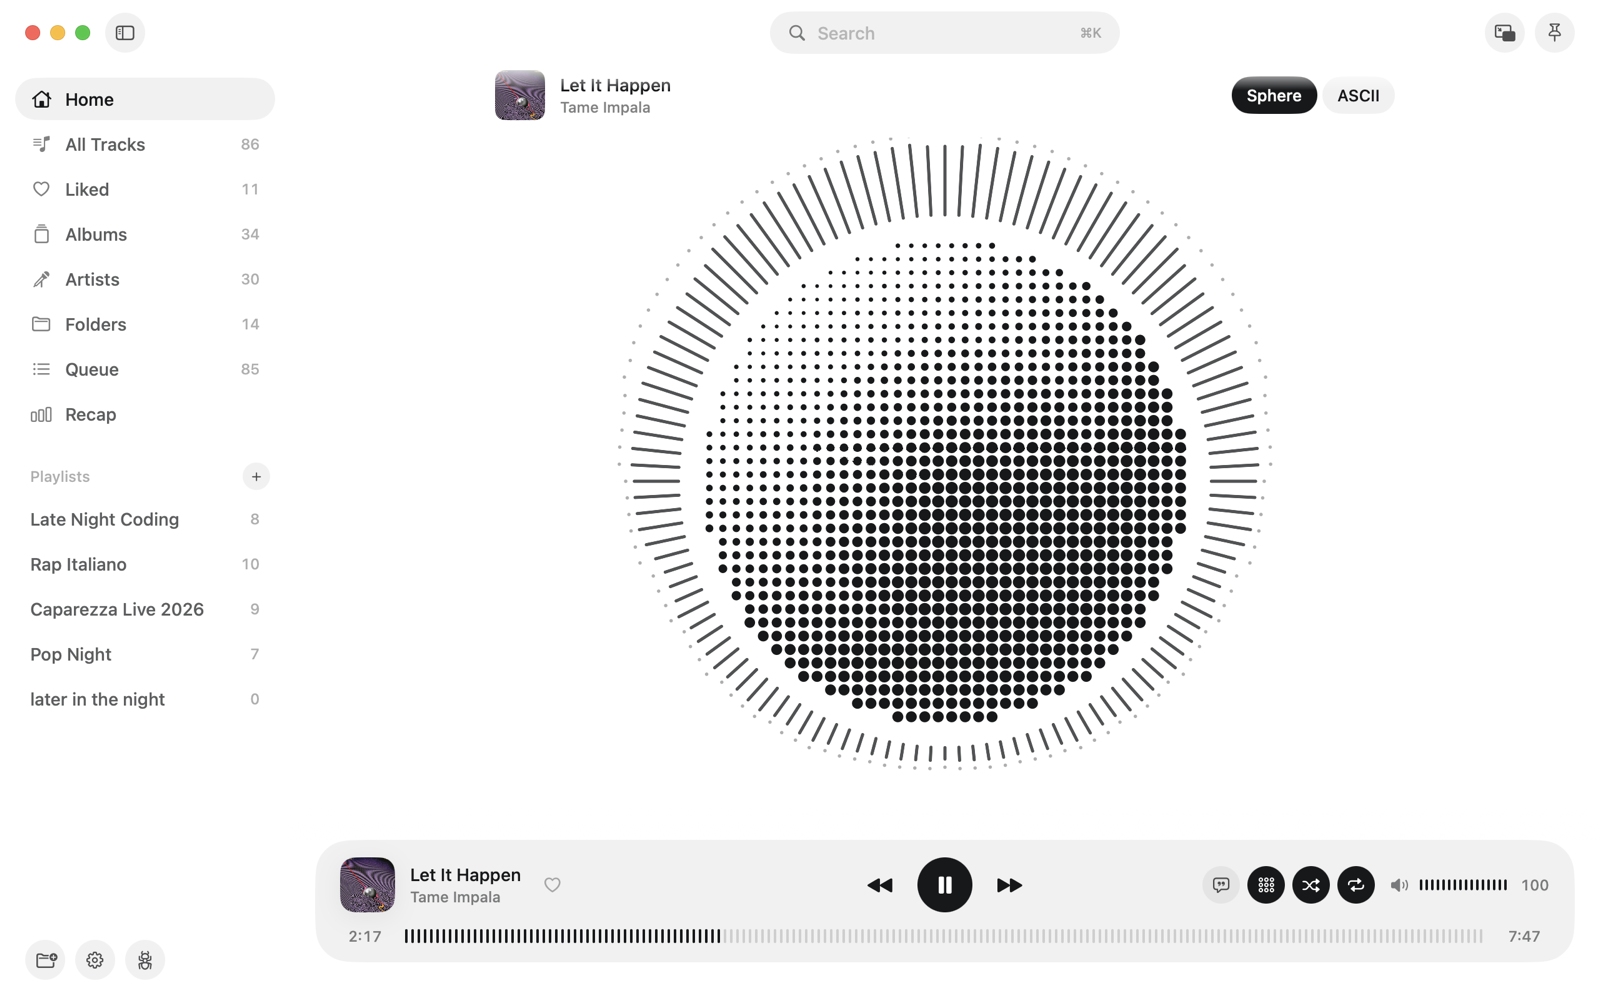
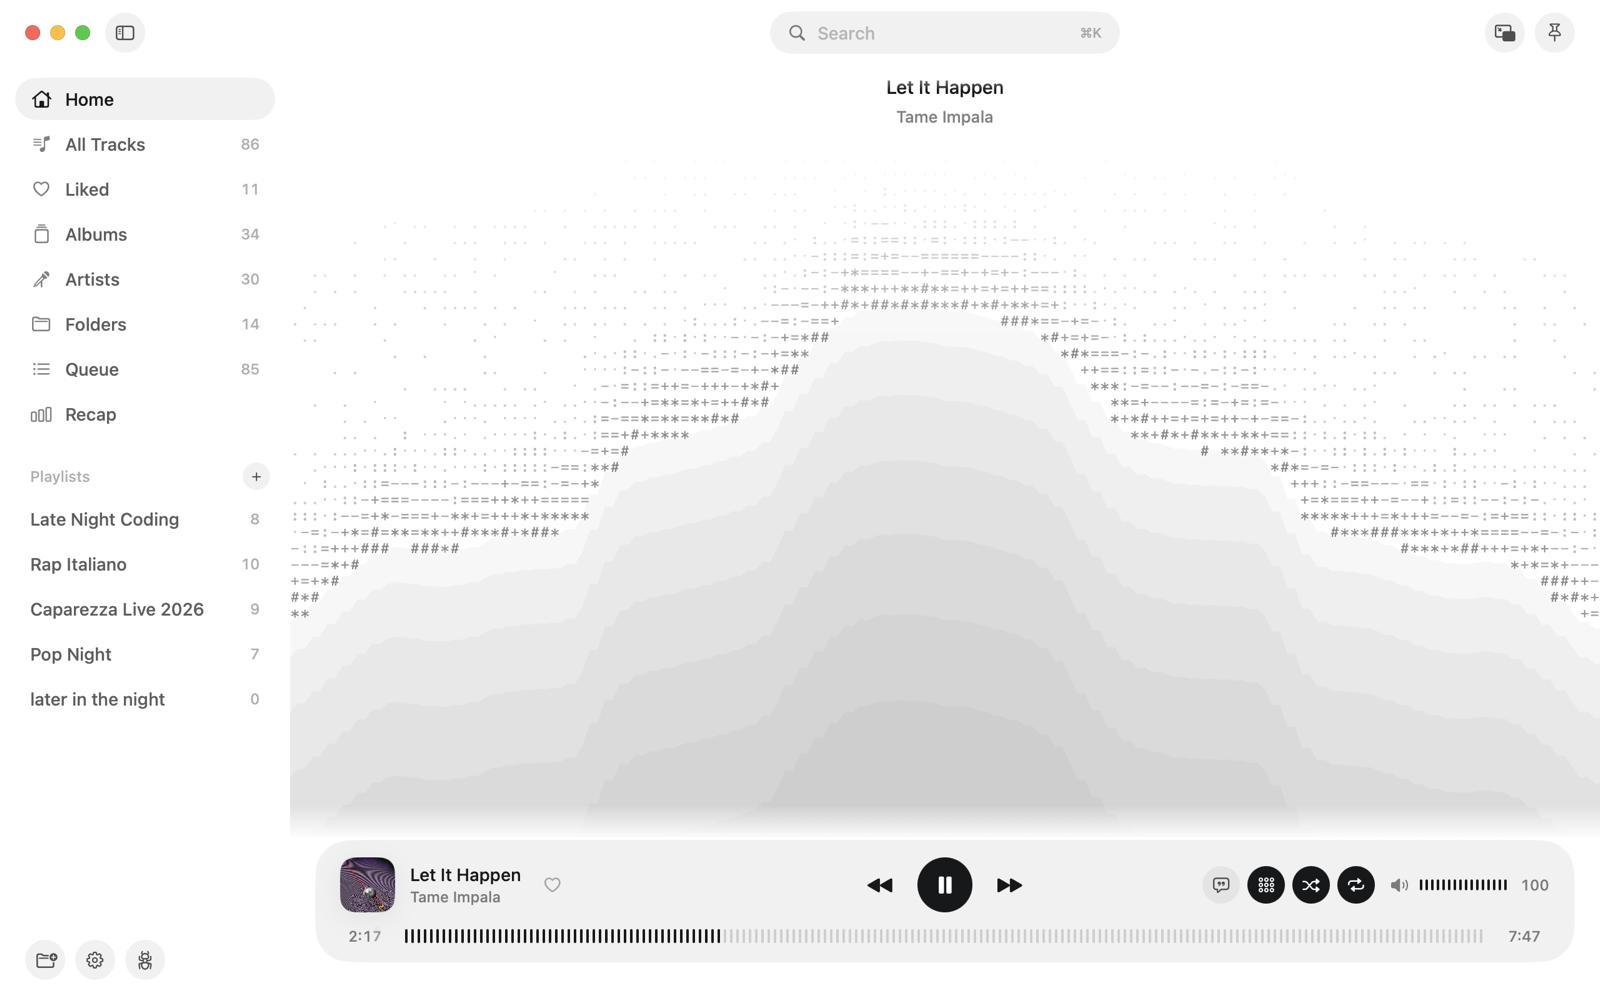
Visualizer: the onboarding's ASCII wave, driven by the music
Replaces the dot sphere, spectrum ring and style switch with the
onboarding's stepped-band wave: its crest follows the spectrum (bass in
the middle, smoothed across bands) and dissolves into ASCII characters.

diff --git a/Sources/Lyra/Views/VisualizerView.swift b/Sources/Lyra/Views/VisualizerView.swift
@@ -1,235 +1,26 @@
 import SwiftUI
 
-/// Full-page visualizer driven by the audio spectrum, in two styles:
-/// - Sphere: a halftone dot sphere (bass in the middle, highs at the rim)
-///   inside a ring of ticks that follow the spectrum, with held peaks and a
-///   pulse on each kick.
-/// - ASCII: the spectrum as columns of characters, mirrored around the
-///   center line, bass in the middle.
+/// The onboarding's ASCII wave, driven by the audio spectrum: stepped
+/// gradient bands that rise with the music and dissolve into characters.
 struct VisualizerView: View {
-    enum Style: String, CaseIterable {
-        case sphere, ascii
-
-        var label: String { self == .sphere ? "Sphere" : "ASCII" }
-    }
-
     @Environment(PlayerViewModel.self) private var vm
-    @Environment(\.accessibilityReduceMotion) private var reduceMotion
-    @AppStorage("lyra.visualizerStyle") private var style: Style = .sphere
-    /// Mutated while drawing; a reference so frames don't trigger view updates.
-    @State private var dynamics = SpectrumDynamics()
 
     var body: some View {
-        VStack(spacing: 14) {
-            header
-            TimelineView(.animation(minimumInterval: 1.0 / 30.0, paused: reduceMotion && !vm.isPlaying)) { timeline in
-                let t = timeline.date.timeIntervalSinceReferenceDate
-                Canvas { ctx, size in
-                    dynamics.update(levels: vm.visualizerLevels, time: t)
-                    switch style {
-                    case .sphere: drawSphere(in: &ctx, size: size, time: t)
-                    case .ascii: drawAscii(in: &ctx, size: size)
-                    }
-                }
-            }
-        }
-        .padding(.horizontal, 24)
-        .padding(.top, 4)
-        .padding(.bottom, 140)
-    }
-
-    private var header: some View {
-        HStack(spacing: 12) {
+        VStack(spacing: 6) {
             if let track = vm.currentTrack {
-                ArtworkView(image: track.thumbnail, radius: 8)
-                    .frame(width: 40, height: 40)
-                VStack(alignment: .leading, spacing: 2) {
-                    Text(track.title)
-                        .font(.system(size: 14, weight: .medium))
-                        .lineLimit(1)
-                    Text(track.artist)
-                        .font(.system(size: 12, weight: .medium))
-                        .foregroundStyle(Theme.secondary)
-                        .lineLimit(1)
-                }
+                Text(track.title)
+                    .font(.system(size: 15, weight: .medium))
+                    .lineLimit(1)
+                Text(track.artist)
+                    .font(.system(size: 13, weight: .medium))
+                    .foregroundStyle(Theme.secondary)
+                    .lineLimit(1)
             }
-            Spacer(minLength: 12)
-            HStack(spacing: 4) {
-                ForEach(Style.allCases, id: \.self) { option in
-                    Chip(title: option.label, isSelected: style == option) { style = option }
-                }
-            }
+            AsciiWaveField(lift: 0, spectrum: vm.visualizerLevels)
+                .mask(LinearGradient(colors: [.clear, .black], startPoint: .top, endPoint: UnitPoint(x: 0.5, y: 0.3)))
+                .allowsHitTesting(false)
         }
-        .frame(maxWidth: 720)
-    }
-
-    // MARK: - Sphere
-
-    /// Dots across the sphere's diameter.
-    private static let dotsAcross = 36
-    private static let ringTicks = 120
-
-    private func drawSphere(in ctx: inout GraphicsContext, size: CGSize, time: Double) {
-        let levels = dynamics.levels
-        guard size.width > 10, size.height > 10, !levels.isEmpty else { return }
-
-        let pulse = dynamics.pulse
-        let base = min(size.width, size.height) * 0.34
-        let radius = base * (1 + 0.04 * dynamics.bass + 0.05 * pulse)
-        let n = Self.dotsAcross
-        let pitch = radius * 2 / Double(n)
-        let center = CGPoint(x: size.width / 2, y: size.height / 2)
-
-        // Light from the upper left, drifting slowly so the sphere feels alive.
-        let angle = reduceMotion ? 0 : time * 0.15
-        var light = (x: -0.55 + 0.15 * cos(angle), y: -0.6 + 0.15 * sin(angle), z: 0.6)
-        let len = (light.x * light.x + light.y * light.y + light.z * light.z).squareRoot()
-        light = (light.x / len, light.y / len, light.z / len)
-
-        let lastBand = levels.count - 1
-        var dots = Path()
-        for row in 0..<n {
-            for col in 0..<n {
-                let nx = (Double(col) + 0.5) / Double(n) * 2 - 1
-                let ny = (Double(row) + 0.5) / Double(n) * 2 - 1
-                let r2 = nx * nx + ny * ny
-                guard r2 <= 1 else { continue }
-                let nz = (1 - r2).squareRoot()
-                let lit = max(0, nx * light.x + ny * light.y + nz * light.z)
-
-                let band = Double(levels[min(lastBand, Int(r2.squareRoot() * Double(lastBand)))])
-                let energy = pow(max(0, band), 0.6)
-
-                let fill = min(1, 0.16 + 0.62 * (1 - lit) + 0.55 * energy)
-                let d = pitch * 0.92 * fill
-                guard d > 0.6 else { continue }
-                let x = center.x + nx * radius
-                let y = center.y + ny * radius
-                dots.addEllipse(in: CGRect(x: x - d / 2, y: y - d / 2, width: d, height: d))
-            }
-        }
-        ctx.fill(dots, with: .color(Theme.ink))
-
-        // Ring of ticks: bass at the top, highs toward the bottom, mirrored
-        // left and right. Held peaks float just outside each tick.
-        let inner = base * 1.14 + 10 * pulse
-        let reach = base * 0.30
-        let peaks = dynamics.peaks
-        var ticks = Path()
-        var caps = Path()
-        for i in 0..<Self.ringTicks {
-            let a = Double(i) / Double(Self.ringTicks) * 2 * .pi
-            let side = a <= .pi ? a / .pi : (2 * .pi - a) / .pi   // 0 top → 1 bottom
-            let b = min(lastBand, Int(side * Double(lastBand)))
-            let energy = pow(Double(max(0, levels[b])), 0.75)
-            let dx = sin(a), dy = -cos(a)
-            let start = CGPoint(x: center.x + dx * inner, y: center.y + dy * inner)
-            let length: Double = 3 + reach * energy
-            let end = CGPoint(x: start.x + dx * length, y: start.y + dy * length)
-            ticks.move(to: start)
-            ticks.addLine(to: end)
-            let peakEnergy = pow(Double(max(0, peaks[b])), 0.75)
-            let peak = inner + 3 + reach * peakEnergy + 6
-            let p = CGPoint(x: center.x + dx * peak, y: center.y + dy * peak)
-            caps.addEllipse(in: CGRect(x: p.x - 1.4, y: p.y - 1.4, width: 2.8, height: 2.8))
-        }
-        ctx.stroke(ticks, with: .color(Theme.ink.opacity(0.75)), style: StrokeStyle(lineWidth: 2.5, lineCap: .round))
-        ctx.fill(caps, with: .color(Theme.ink.opacity(0.35)))
-    }
-
-    // MARK: - ASCII
-
-    /// Sparse to dense.
-    private static let ramp: [Character] = [".", ":", "-", "=", "+", "*", "#", "%", "@"]
-
-    private func drawAscii(in ctx: inout GraphicsContext, size: CGSize) {
-        let levels = dynamics.levels
-        guard size.width > 40, size.height > 40, !levels.isEmpty else { return }
-
-        let fontSize = max(11, min(18, size.width / 60))
-        let cell = CGSize(width: fontSize * 0.62, height: fontSize * 1.15)
-        let glyphs = Self.ramp.map {
-            ctx.resolve(Text(String($0))
-                .font(.system(size: fontSize, weight: .bold, design: .monospaced))
-                .foregroundColor(Theme.ink))
-        }
-        let peakGlyph = ctx.resolve(Text("-")
-            .font(.system(size: fontSize, weight: .bold, design: .monospaced))
-            .foregroundColor(Theme.ink))
-
-        let cols = Int(size.width / cell.width)
-        let halfRows = Int(size.height / cell.height / 2) - 1
-        let midY = size.height / 2
-        let left = (size.width - Double(cols) * cell.width) / 2 + cell.width / 2
-        let lastBand = levels.count - 1
-        let peaks = dynamics.peaks
-
-        for c in 0..<cols {
-            // Bass in the middle, highs toward both edges.
-            let fromCenter = abs(Double(c) - Double(cols - 1) / 2) / (Double(cols) / 2)
-            let b = min(lastBand, Int(fromCenter * Double(lastBand)))
-            let energy = pow(Double(max(0, levels[b])), 0.7)
-            let height = Int((energy * Double(halfRows)).rounded())
-            let x = left + Double(c) * cell.width
-            if height > 0 {
-                for k in 0..<height {
-                    // Densest at the center line, thinning toward the tips.
-                    let along: Double = Double(k) / Double(max(1, halfRows))
-                    let tip: Double = Double(k) / Double(max(1, height))
-                    let density: Double = 1 - tip * 0.85 - along * 0.15
-                    let index = Int(density * Double(glyphs.count - 1))
-                    let g = glyphs[max(0, min(glyphs.count - 1, index))]
-                    ctx.opacity = 0.35 + 0.65 * density
-                    let dy: Double = (Double(k) + 0.5) * cell.height
-                    ctx.draw(g, at: CGPoint(x: x, y: midY - dy))
-                    // The reflection below is fainter.
-                    ctx.opacity *= 0.45
-                    ctx.draw(g, at: CGPoint(x: x, y: midY + dy))
-                }
-            }
-            let peakEnergy = pow(Double(max(0, peaks[b])), 0.7)
-            let peakRow = Int((peakEnergy * Double(halfRows)).rounded())
-            if peakRow > height {
-                ctx.opacity = 0.45
-                ctx.draw(peakGlyph, at: CGPoint(x: x, y: midY - (Double(peakRow) + 0.5) * cell.height))
-            }
-        }
-        ctx.opacity = 1
-    }
-}
-
-/// Peak hold and kick detection on top of the smoothed levels. Updated from
-/// the drawing pass, once per frame.
-final class SpectrumDynamics {
-    private(set) var levels: [Float] = []
-    private(set) var peaks: [Float] = []
-    /// Average of the lowest bands, 0...1.
-    private(set) var bass: Double = 0
-    /// Jumps to 1 on a kick, then fades out.
-    private(set) var pulse: Double = 0
-
-    private var bassAverage: Double = 0
-    private var lastKick: Double = 0
-    private var lastTime: Double = 0
-
-    func update(levels: [Float], time: Double) {
-        let dt = lastTime == 0 ? 1.0 / 30 : min(0.1, max(0, time - lastTime))
-        lastTime = time
-        self.levels = levels
-        if peaks.count != levels.count { peaks = levels }
-        for i in levels.indices {
-            // Peaks hold, then fall slowly.
-            peaks[i] = max(levels[i], peaks[i] - Float(dt * 0.35))
-        }
-
-        let lows = levels.prefix(6)
-        bass = lows.isEmpty ? 0 : Double(lows.reduce(0, +)) / Double(lows.count)
-        bassAverage += (bass - bassAverage) * min(1, dt * 2.5)
-        if bass > 0.22, bass > bassAverage * 1.3, time - lastKick > 0.22 {
-            pulse = 1
-            lastKick = time
-        } else {
-            pulse = max(0, pulse - dt * 3.5)
-        }
+        .padding(.top, 8)
+        .padding(.bottom, 130)
     }
 }

diff --git a/Sources/Lyra/Views/OnboardingView.swift b/Sources/Lyra/Views/OnboardingView.swift
@@ -143,9 +143,12 @@ private extension View {
 
 /// A wave rising from the bottom, drawn as stepped gradient bands that
 /// dissolve upward into ASCII characters. Monochrome ink, so it follows the
-/// light and dark appearance. `lift` (0...1) raises the wave.
+/// light and dark appearance. `lift` (0...1) raises the wave. With a
+/// `spectrum` (band levels, 0...1) the crest follows the music instead:
+/// bass in the middle, highs toward the edges.
 struct AsciiWaveField: View, @preconcurrency Animatable {
     var lift: Double
+    var spectrum: [Float] = []
     @Environment(\.accessibilityReduceMotion) private var reduceMotion
 
     var animatableData: Double {
@@ -171,12 +174,32 @@ struct AsciiWaveField: View, @preconcurrency Animatable {
 
     /// Height of the wave's crest at `x`, measured from the top.
     private func crest(_ x: Double, size: CGSize, time t: Double) -> Double {
+        if !spectrum.isEmpty { return spectrumCrest(x, size: size, time: t) }
         let u = x / max(size.width, 1) * 2 * .pi
         let base = 0.58 - 0.22 * lift
         let wave = 0.110 * sin(u * 1.1 + t * 0.35)
             + 0.055 * sin(u * 2.7 - t * 0.60 + 1.3)
             + 0.025 * sin(u * 6.3 + t * 1.10)
         return (base + wave * (1 + 0.6 * lift)) * size.height
+    }
+
+    /// Low and almost still in silence, rising where the music has energy.
+    private func spectrumCrest(_ x: Double, size: CGSize, time t: Double) -> Double {
+        let u = x / max(size.width, 1)
+        let position = abs(u - 0.5) * 2 * Double(spectrum.count - 1)
+        // Averaged over neighbouring bands, so the crest rolls like a wave
+        // instead of spiking band by band.
+        var level = 0.0, weights = 0.0
+        for offset in -3...3 {
+            let p = position + Double(offset)
+            let i = max(0, min(spectrum.count - 1, Int(p.rounded())))
+            let w = exp(-Double(offset * offset) / 4)
+            level += Double(spectrum[i]) * w
+            weights += w
+        }
+        let energy = pow(max(0, level / weights), 0.75)
+        let idle = 0.018 * sin(u * 2 * .pi * 1.1 + t * 0.35) + 0.010 * sin(u * 2 * .pi * 2.7 - t * 0.6 + 1.3)
+        return (0.80 - 0.58 * energy + idle) * size.height
     }
 
     private func draw(in ctx: inout GraphicsContext, size: CGSize, time t: Double) {

diff --git a/README.md b/README.md
@@ -24,7 +24,7 @@ Lyra is a small macOS music player. You point it at the folder where your music 
 
 ![Search](docs/search.png)
 
-**A visualizer you can actually look at.** A sphere of dots that breathes with the music, bass in the middle and highs on the edges, inside a ring that follows the spectrum and pulses on every kick. Or switch to ASCII: the spectrum drawn in characters.
+**A visualizer you can actually look at.** A wave of stepped gray bands that rises with the music, bass in the middle and highs on the edges, and dissolves into ASCII characters at the crest.
 
 ![Visualizer](docs/visualizer.png)
 
